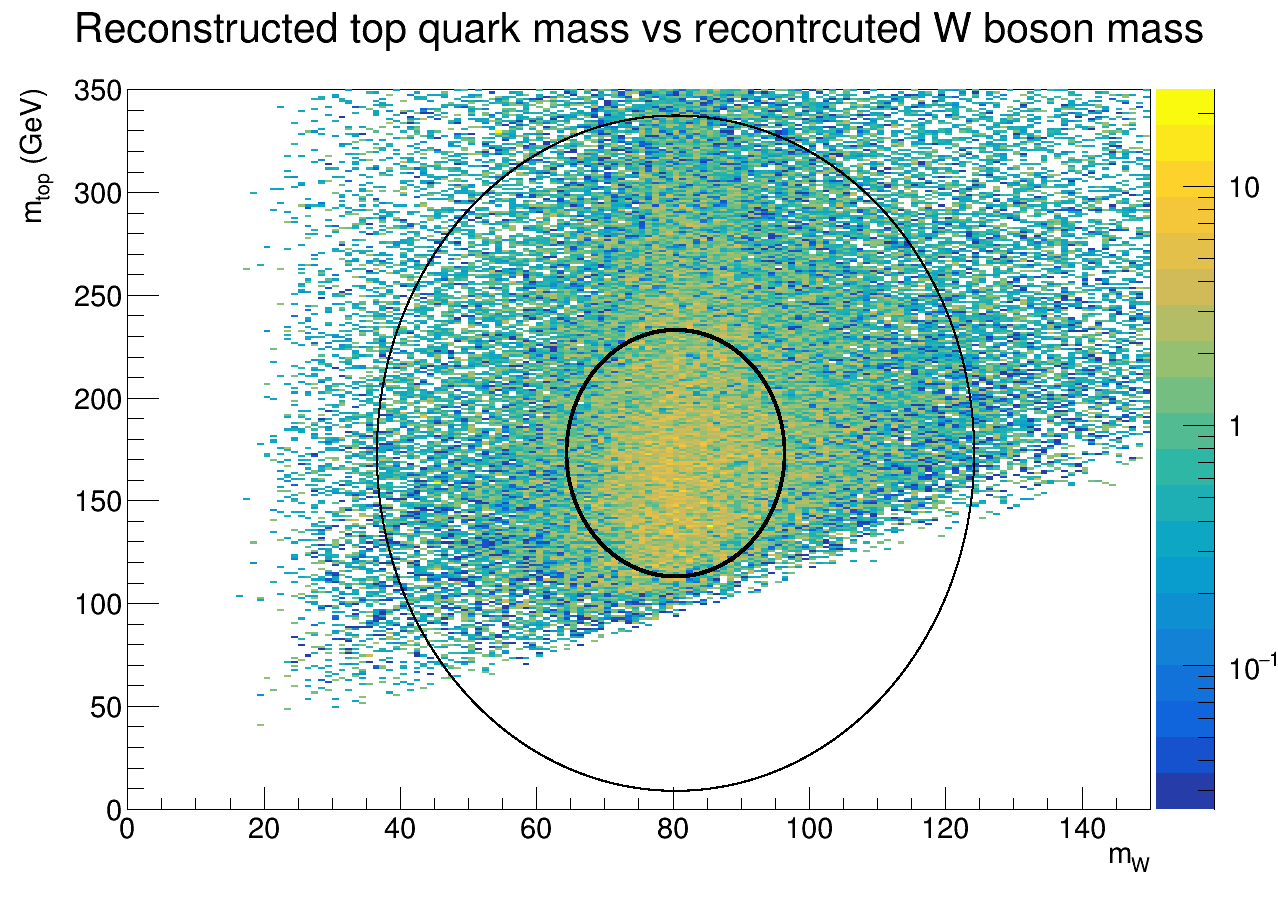
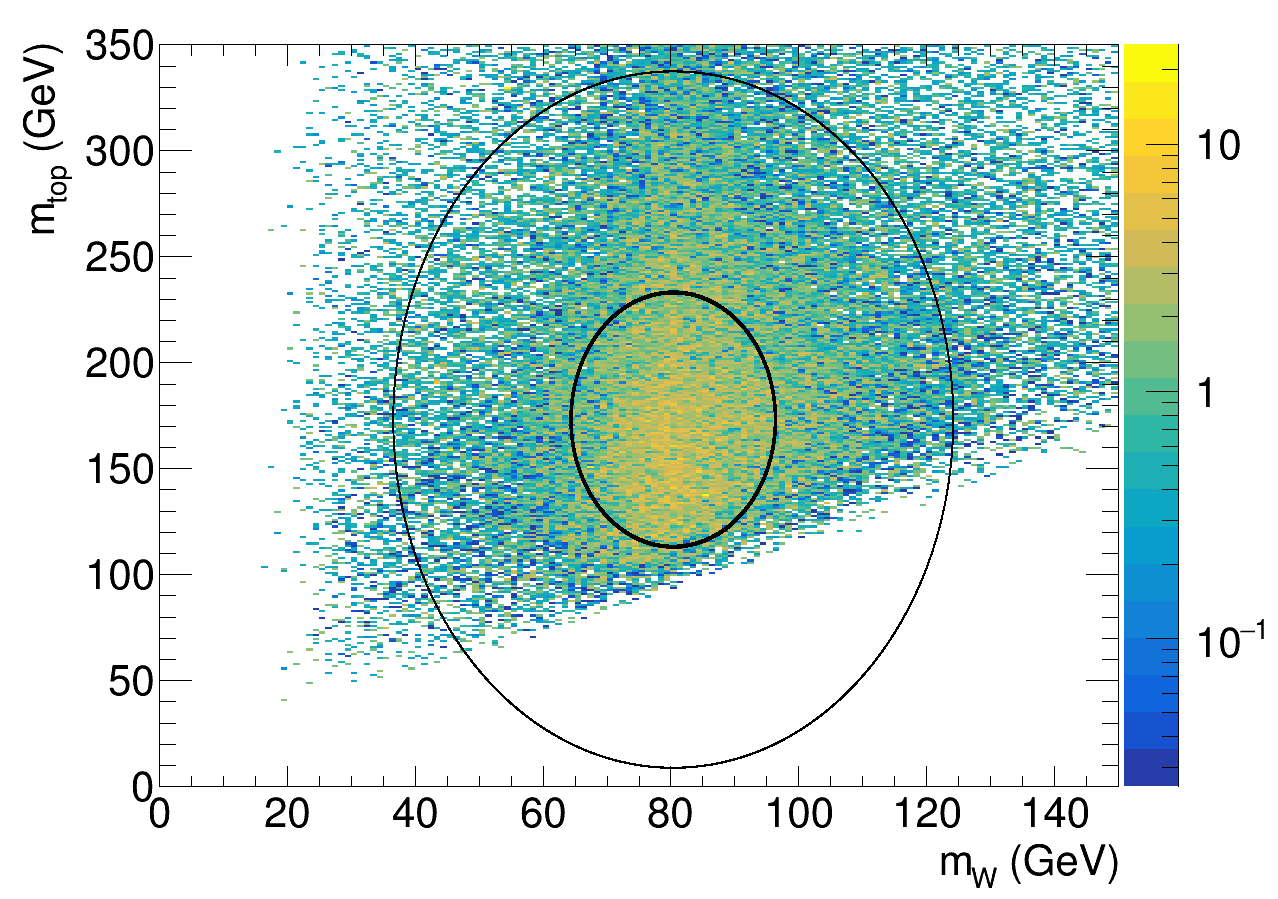
proofing

diff --git a/figs/blinding/all_topVsWmass.C b/figs/blinding/all_topVsWmass.C
@@ -2,17 +2,23 @@ void all_topVsWmass()
 {
 //=========Macro generated from canvas: Canvas_1/Canvas_1
 //=========  (Tue Sep 25 03:29:30 2018) by ROOT version 6.14/04
-   TCanvas *Canvas_1 = new TCanvas("Canvas_1", "Canvas_1",0,0,1280,1024);
+   TCanvas *Canvas_1 = new TCanvas("Canvas_1", "Canvas_1",0,0,1280,925);
    gStyle->SetOptStat(0);
    Canvas_1->Range(-18.75,-43.75,168.75,393.75);
    Canvas_1->SetFillColor(0);
    Canvas_1->SetBorderMode(0);
    Canvas_1->SetBorderSize(2);
    Canvas_1->SetLogz();
+   Canvas_1->SetLeftMargin(0.125);
+   Canvas_1->SetRightMargin(0.125);
+   Canvas_1->SetTopMargin(0.05);
+   Canvas_1->SetBottomMargin(0.125);
    Canvas_1->SetFrameBorderMode(0);
+   Canvas_1->SetTickx(1);
+   Canvas_1->SetTicky(1);
    Canvas_1->SetFrameBorderMode(0);
    
-   TH2D *All_topVsWmassHisto = new TH2D("All_topVsWmassHisto","Reconstructed top quark mass vs recontrcuted W boson mass",150,0,150,350,0,350);
+   TH2D *All_topVsWmassHisto = new TH2D("All_topVsWmassHisto","",150,0,150,350,0,350);
    All_topVsWmassHisto->SetBinContent(5342,0.0007295347);
    All_topVsWmassHisto->SetBinContent(6252,1.591842);
    All_topVsWmassHisto->SetBinContent(7025,0.0006198549);
@@ -31038,19 +31044,21 @@ void all_topVsWmass()
 
    ci = TColor::GetColor("#000099");
    All_topVsWmassHisto->SetLineColor(ci);
-   All_topVsWmassHisto->GetXaxis()->SetTitle(" m_{W}");
+   All_topVsWmassHisto->GetXaxis()->SetTitle(" m_{W} (GeV)");
    All_topVsWmassHisto->GetXaxis()->SetLabelFont(42);
-   All_topVsWmassHisto->GetXaxis()->SetLabelSize(0.035);
-   All_topVsWmassHisto->GetXaxis()->SetTitleSize(0.035);
+   All_topVsWmassHisto->GetXaxis()->SetLabelSize(0.05);
+   All_topVsWmassHisto->GetXaxis()->SetTitleSize(0.05);
    All_topVsWmassHisto->GetXaxis()->SetTitleFont(42);
+   All_topVsWmassHisto->GetXaxis()->SetTitleOffset(1.1);
    All_topVsWmassHisto->GetYaxis()->SetTitle(" m_{top} (GeV)");
    All_topVsWmassHisto->GetYaxis()->SetLabelFont(42);
-   All_topVsWmassHisto->GetYaxis()->SetLabelSize(0.035);
-   All_topVsWmassHisto->GetYaxis()->SetTitleSize(0.035);
+   All_topVsWmassHisto->GetYaxis()->SetLabelSize(0.05);
+   All_topVsWmassHisto->GetYaxis()->SetTitleSize(0.05);
    All_topVsWmassHisto->GetYaxis()->SetTitleFont(42);
+   All_topVsWmassHisto->GetYaxis()->SetTitleOffset(1.1);
    All_topVsWmassHisto->GetZaxis()->SetLabelFont(42);
-   All_topVsWmassHisto->GetZaxis()->SetLabelSize(0.035);
-   All_topVsWmassHisto->GetZaxis()->SetTitleSize(0.035);
+   All_topVsWmassHisto->GetZaxis()->SetLabelSize(0.05);
+   All_topVsWmassHisto->GetZaxis()->SetTitleSize(0.05);
    All_topVsWmassHisto->GetZaxis()->SetTitleFont(42);
    All_topVsWmassHisto->Draw("colz");
 
@@ -31097,7 +31105,7 @@ void all_topVsWmass()
    pt->SetFillColor(0);
    pt->SetFillStyle(0);
    pt->SetTextFont(42);
-   TText *pt_LaTex = pt->AddText("Reconstructed top quark mass vs recontrcuted W boson mass");
+   TText *pt_LaTex = pt->AddText("");
    pt->Draw();
    Canvas_1->Modified();
    Canvas_1->cd();

diff --git a/figs/blinding/tZq_topVsWmass.C b/figs/blinding/tZq_topVsWmass.C
@@ -8,10 +8,16 @@ void tZq_topVsWmass()
    Canvas_1->SetFillColor(0);
    Canvas_1->SetBorderMode(0);
    Canvas_1->SetBorderSize(2);
+   Canvas_1->SetLeftMargin(0.125);
+   Canvas_1->SetRightMargin(0.125);
+   Canvas_1->SetTopMargin(0.05);
+   Canvas_1->SetBottomMargin(0.125);
    Canvas_1->SetFrameBorderMode(0);
+   Canvas_1->SetTickx(1);
+   Canvas_1->SetTicky(1);
    Canvas_1->SetFrameBorderMode(0);
    
-   TH2D *tZq_topVsWmassHisto = new TH2D("tZq_topVsWmassHisto","Reconstructed top quark mass vs recontrcuted W boson mass",150,0,150,350,0,350);
+   TH2D *tZq_topVsWmassHisto = new TH2D("tZq_topVsWmassHisto","",150,0,150,350,0,350);
    tZq_topVsWmassHisto->SetBinContent(5342,0.0007295347);
    tZq_topVsWmassHisto->SetBinContent(7025,0.0006198549);
    tZq_topVsWmassHisto->SetBinContent(7173,0.0006810253);
@@ -29410,17 +29416,19 @@ void tZq_topVsWmass()
    tZq_topVsWmassHisto->SetLineColor(ci);
    tZq_topVsWmassHisto->GetXaxis()->SetTitle(" m_{W} (GeV)");
    tZq_topVsWmassHisto->GetXaxis()->SetLabelFont(42);
-   tZq_topVsWmassHisto->GetXaxis()->SetLabelSize(0.035);
-   tZq_topVsWmassHisto->GetXaxis()->SetTitleSize(0.035);
+   tZq_topVsWmassHisto->GetXaxis()->SetLabelSize(0.05);
+   tZq_topVsWmassHisto->GetXaxis()->SetTitleSize(0.05);
    tZq_topVsWmassHisto->GetXaxis()->SetTitleFont(42);
+   tZq_topVsWmassHisto->GetXaxis()->SetTitleOffset(1.1);
    tZq_topVsWmassHisto->GetYaxis()->SetTitle(" m_{Top} (GeV)");
    tZq_topVsWmassHisto->GetYaxis()->SetLabelFont(42);
-   tZq_topVsWmassHisto->GetYaxis()->SetLabelSize(0.035);
-   tZq_topVsWmassHisto->GetYaxis()->SetTitleSize(0.035);
+   tZq_topVsWmassHisto->GetYaxis()->SetLabelSize(0.05);
+   tZq_topVsWmassHisto->GetYaxis()->SetTitleSize(0.05);
    tZq_topVsWmassHisto->GetYaxis()->SetTitleFont(42);
+   tZq_topVsWmassHisto->GetYaxis()->SetTitleOffset(1.1);
    tZq_topVsWmassHisto->GetZaxis()->SetLabelFont(42);
-   tZq_topVsWmassHisto->GetZaxis()->SetLabelSize(0.035);
-   tZq_topVsWmassHisto->GetZaxis()->SetTitleSize(0.035);
+   tZq_topVsWmassHisto->GetZaxis()->SetLabelSize(0.05);
+   tZq_topVsWmassHisto->GetZaxis()->SetTitleSize(0.05);
    tZq_topVsWmassHisto->GetZaxis()->SetTitleFont(42);
    tZq_topVsWmassHisto->Draw("colz");
    
@@ -29466,7 +29474,7 @@ void tZq_topVsWmass()
    pt->SetFillColor(0);
    pt->SetFillStyle(0);
    pt->SetTextFont(42);
-   TText *pt_LaTex = pt->AddText("Reconstructed top quark mass vs recontrcuted W boson mass");
+   TText *pt_LaTex = pt->AddText("");
    pt->Draw();
    Canvas_1->Modified();
    Canvas_1->cd();
